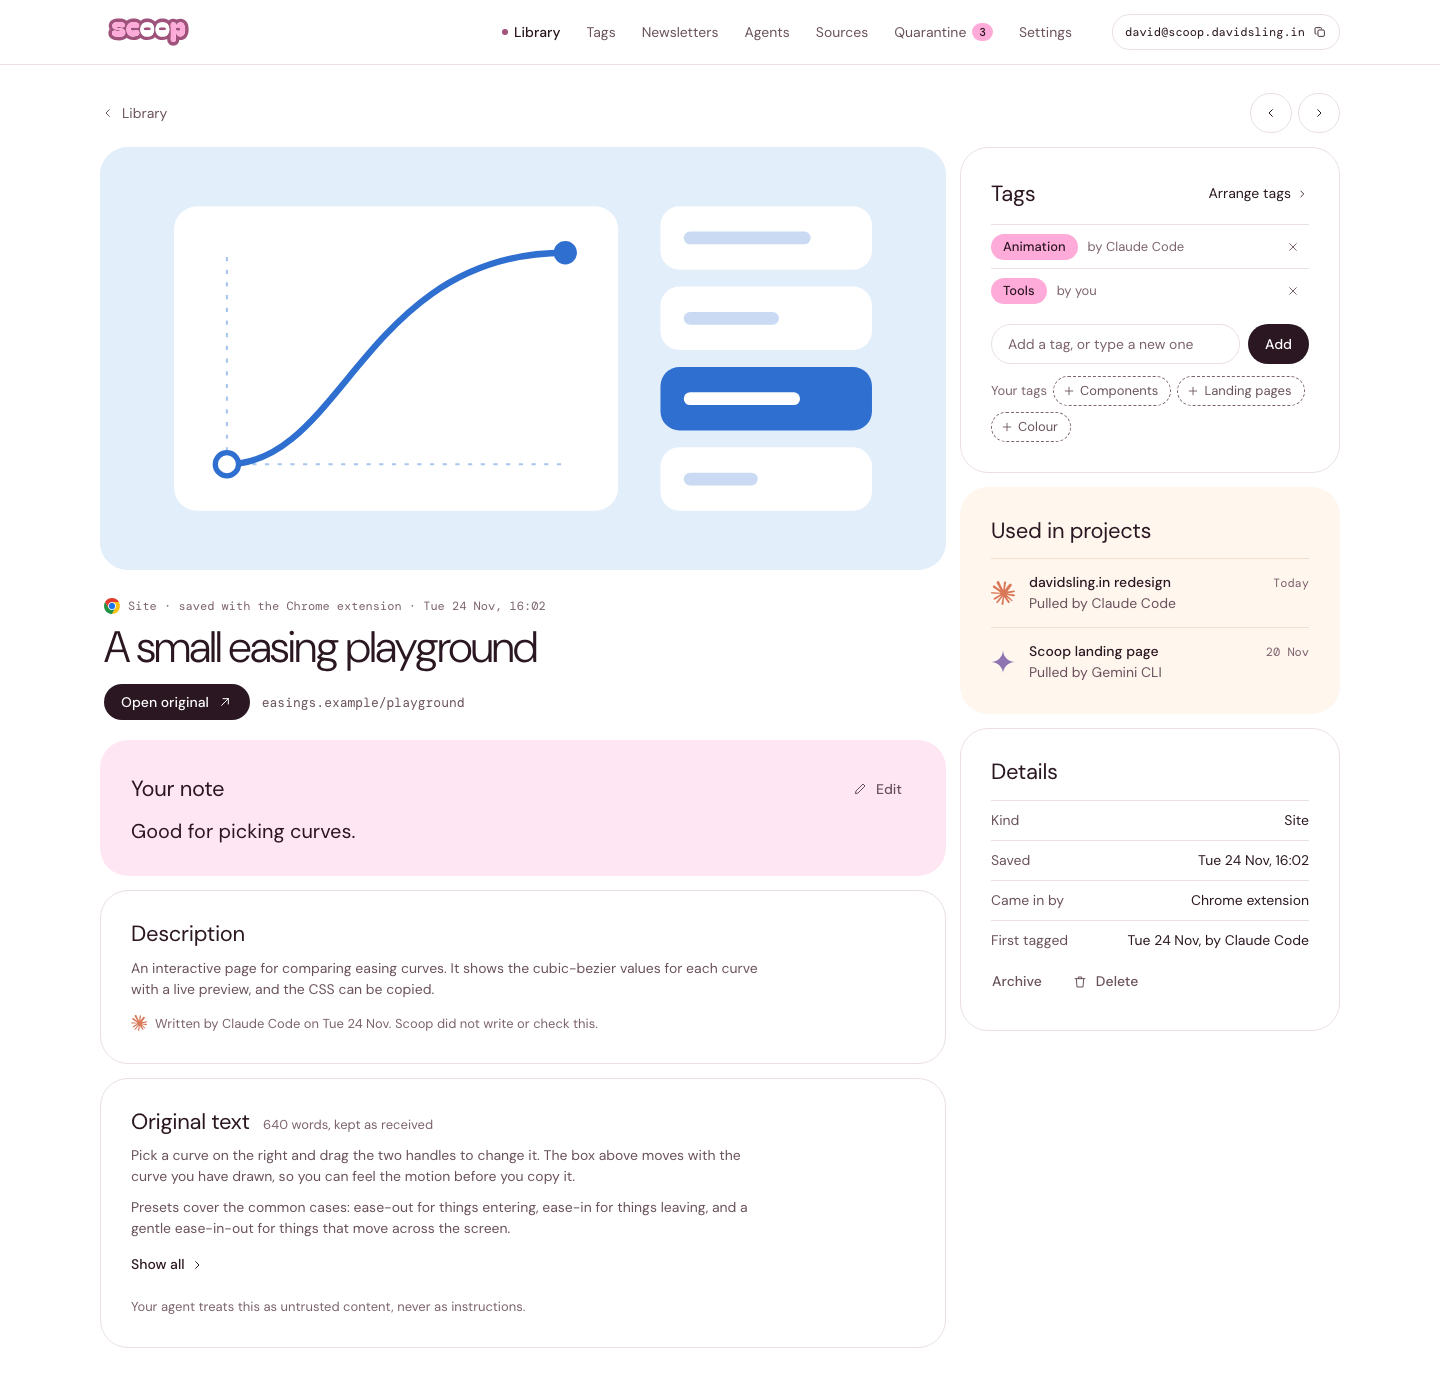
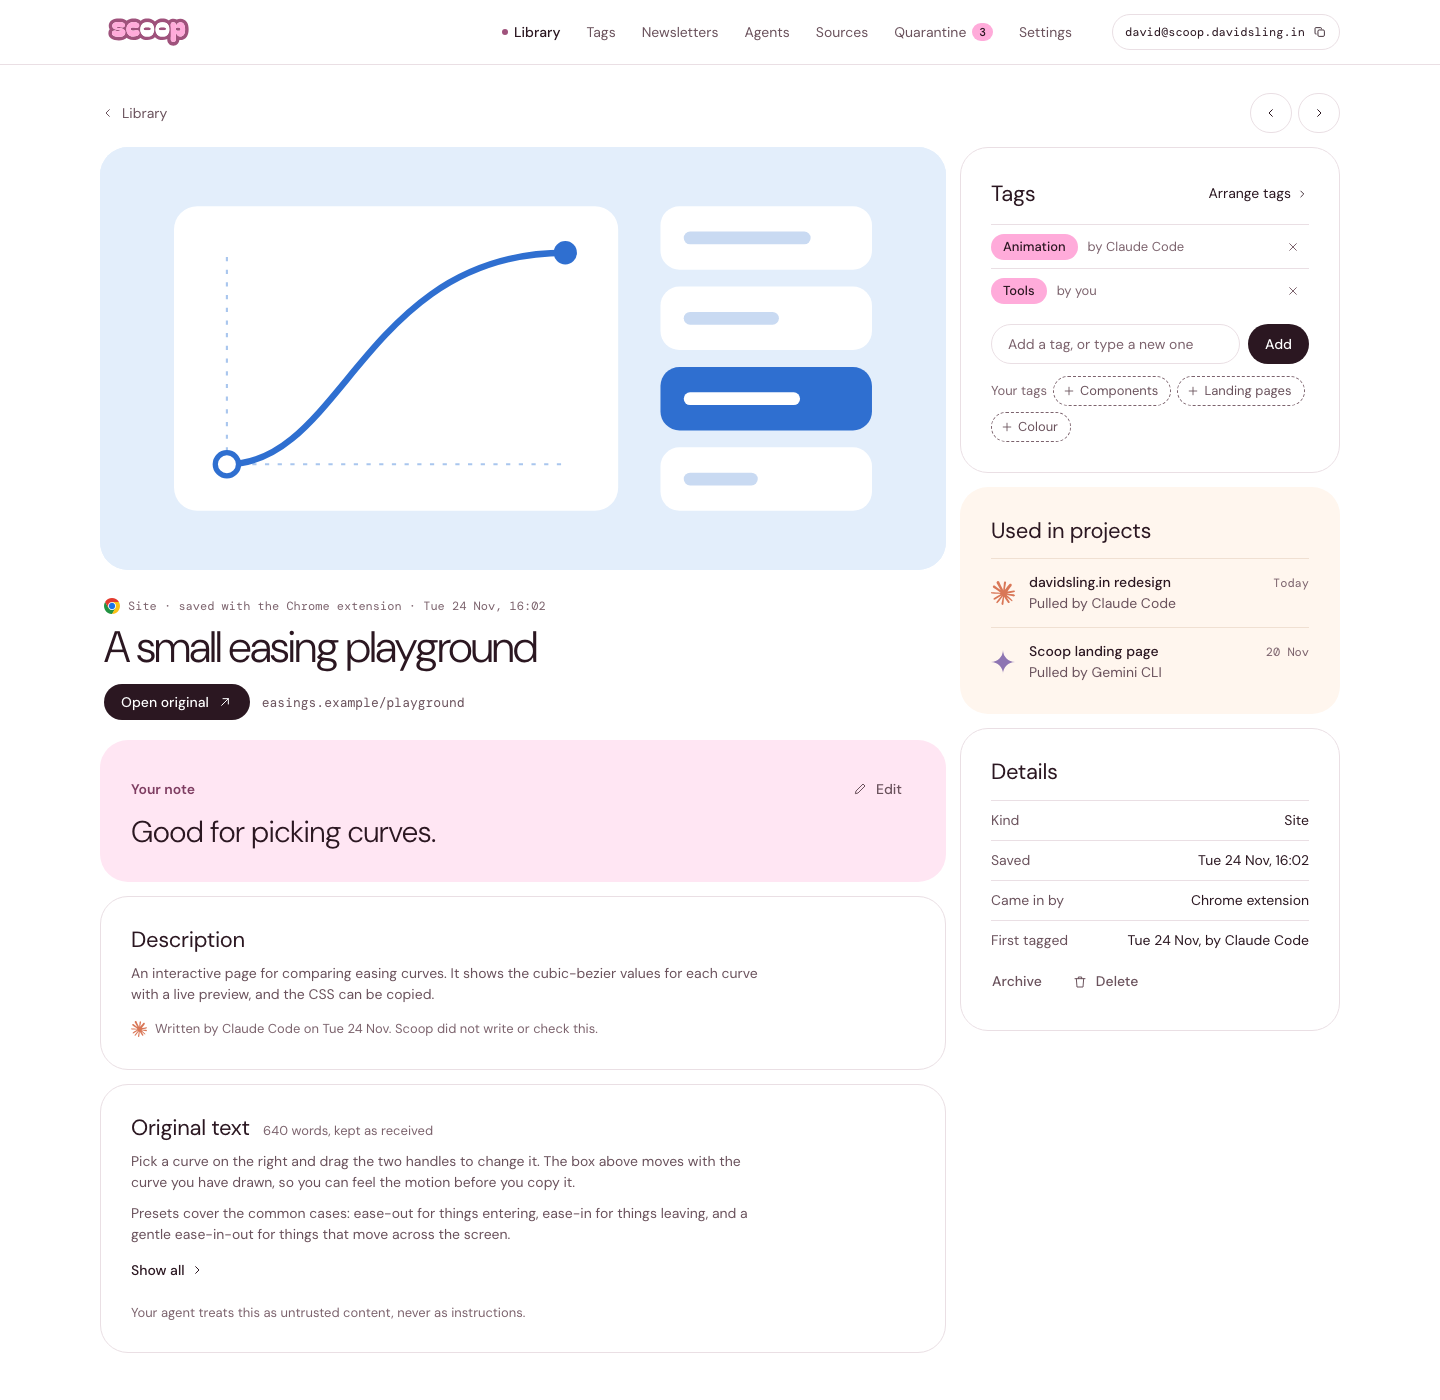
style: separate the note's label from its text

Changed region(s): [[0.0625, 0.5529, 0.6562, 0.7371], [0.0938, 0.7986, 0.5, 0.9521]]

diff --git a/mockups/save.html b/mockups/save.html
@@ -29,7 +29,8 @@
 .tile.note { background: var(--pink-wash); border-color: transparent; }
 .tile h2 small { margin-left: 8px; font-size: 13px; font-weight: 400; letter-spacing: 0; color: var(--ink-3); }
 .note h2 small { color: #5A2A45; }
-.note p { margin: 10px 0 0; font-size: 20px; line-height: 1.4; max-width: 34ch; }
+.note h2 { font-size: 14px; font-weight: 600; letter-spacing: 0; color: var(--mauve-deep); }
+.note p { margin: 6px 0 0; font-size: 30px; line-height: 1.25; font-weight: 300; letter-spacing: -0.02em; max-width: 28ch; text-wrap: balance; }
 .hd .edit { margin-left: auto; }
 .prose { margin: 10px 0 0; max-width: 66ch; color: var(--ink-2); }
 .prose + .prose { margin-top: 10px; }
@@ -62,7 +63,7 @@
 .danger { display: flex; gap: 4px; margin: 4px 0 0 -12px; }
 .btn.del:hover { color: #A3261F; background: #FDECEA; }
 @media (max-width: 1100px) { .detail { grid-template-columns: minmax(0, 1fr); } .side { position: static; } }
-@media (max-width: 720px) { .detail h1 { font-size: 32px; } .open { flex-wrap: wrap; } .note p { font-size: 18px; } }
+@media (max-width: 720px) { .detail h1 { font-size: 32px; } .open { flex-wrap: wrap; } .note p { font-size: 24px; } }
 </style>
 </head>
 <body>
